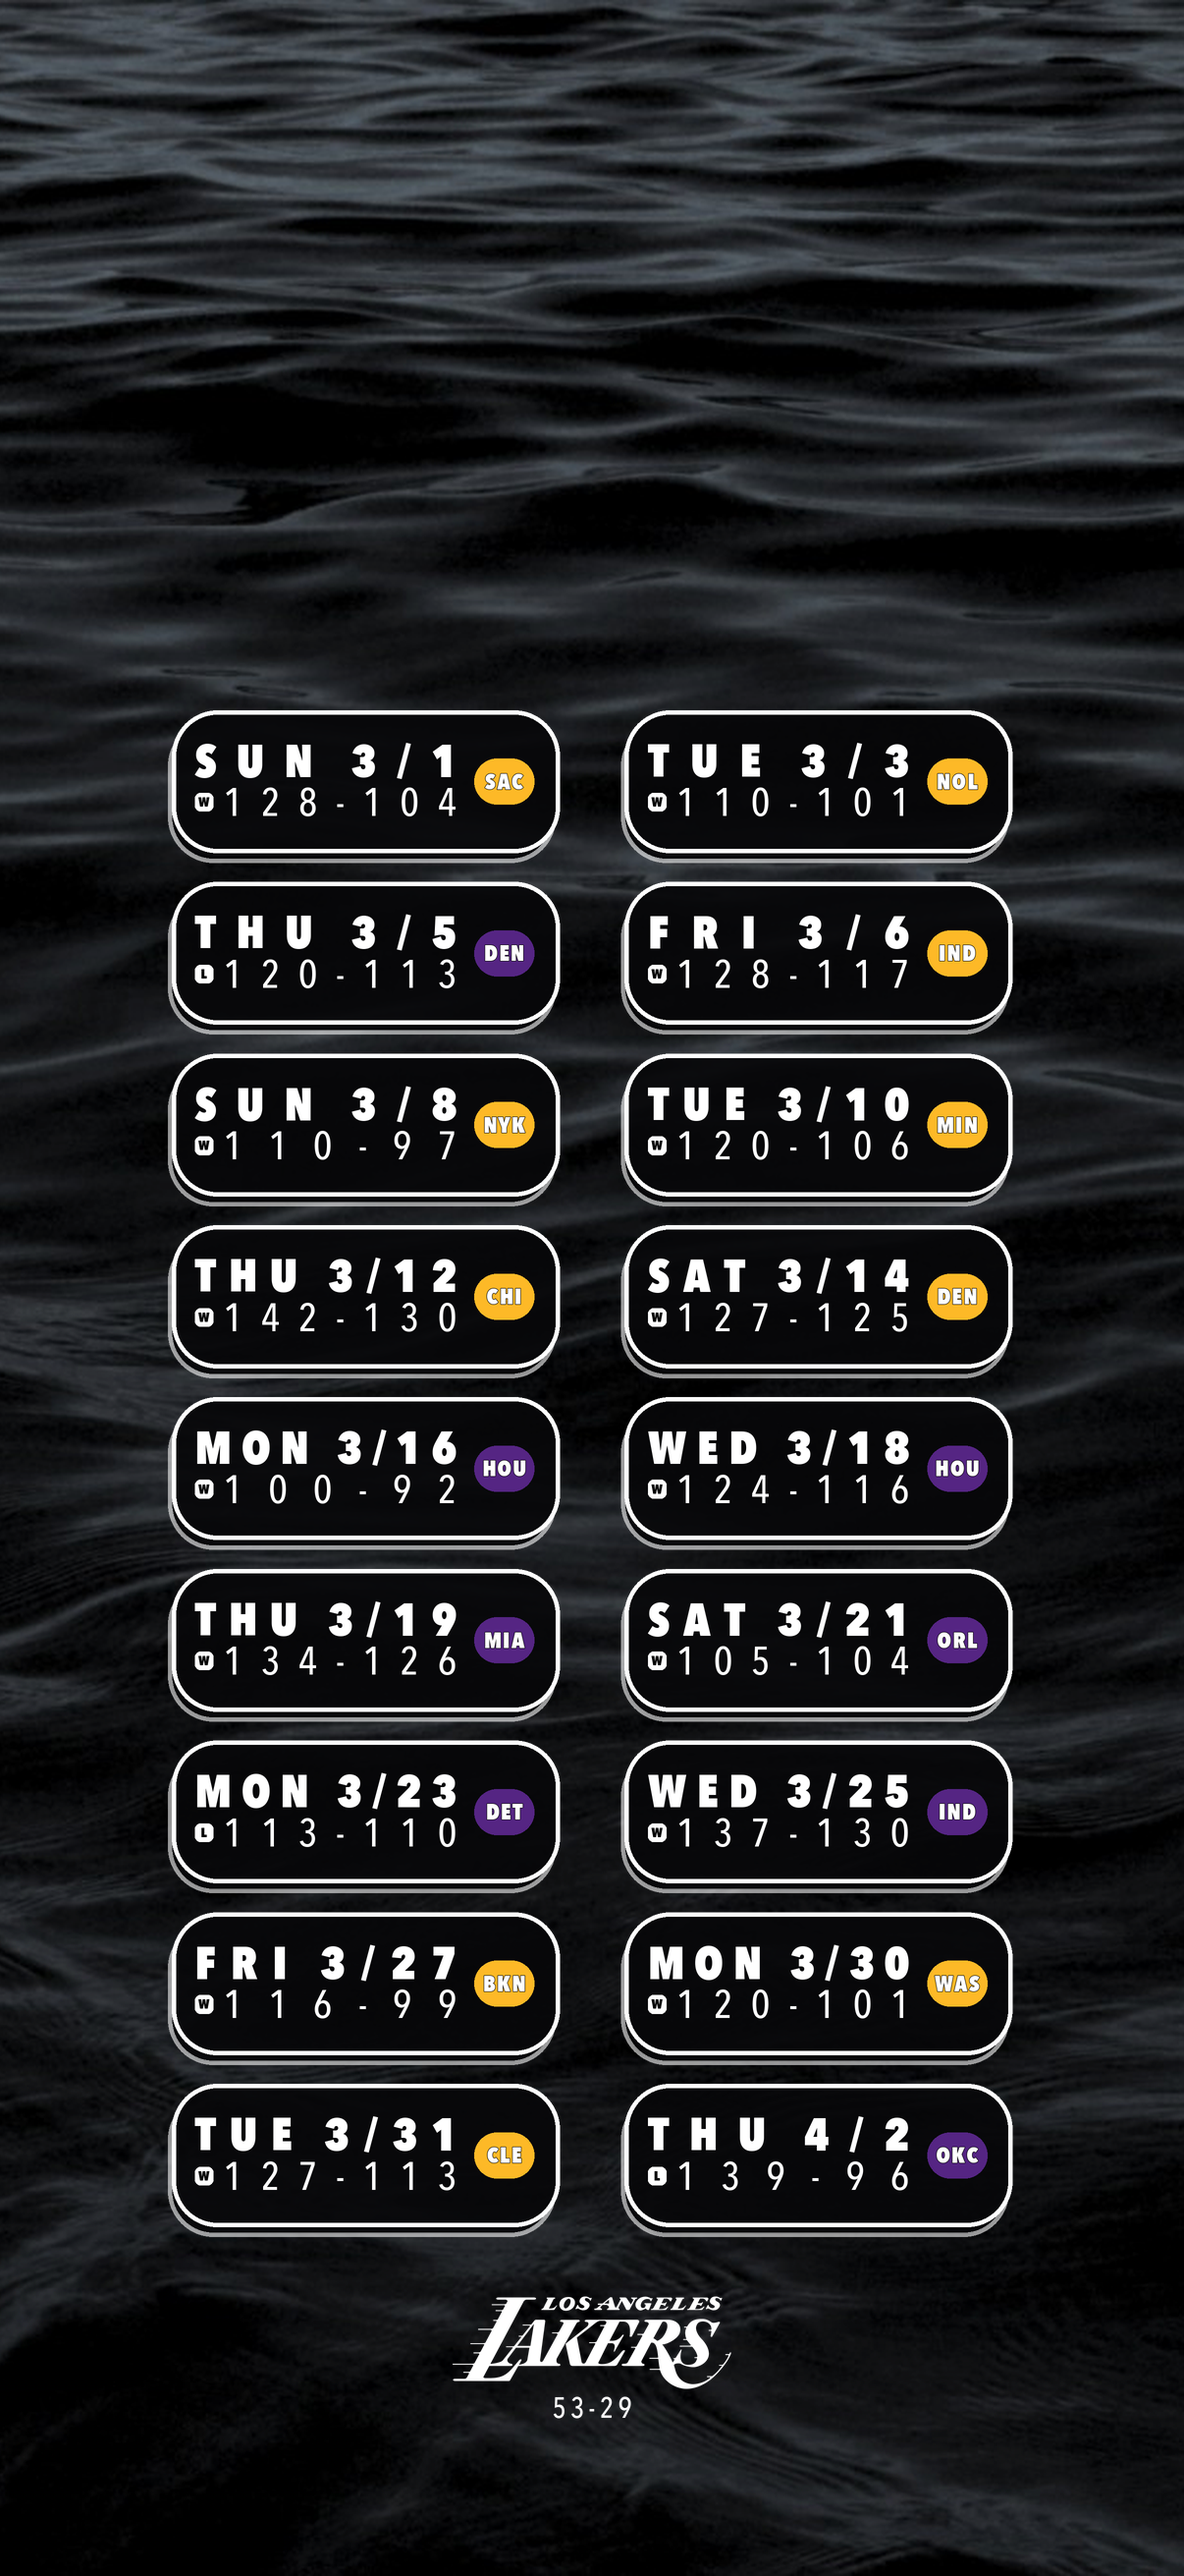
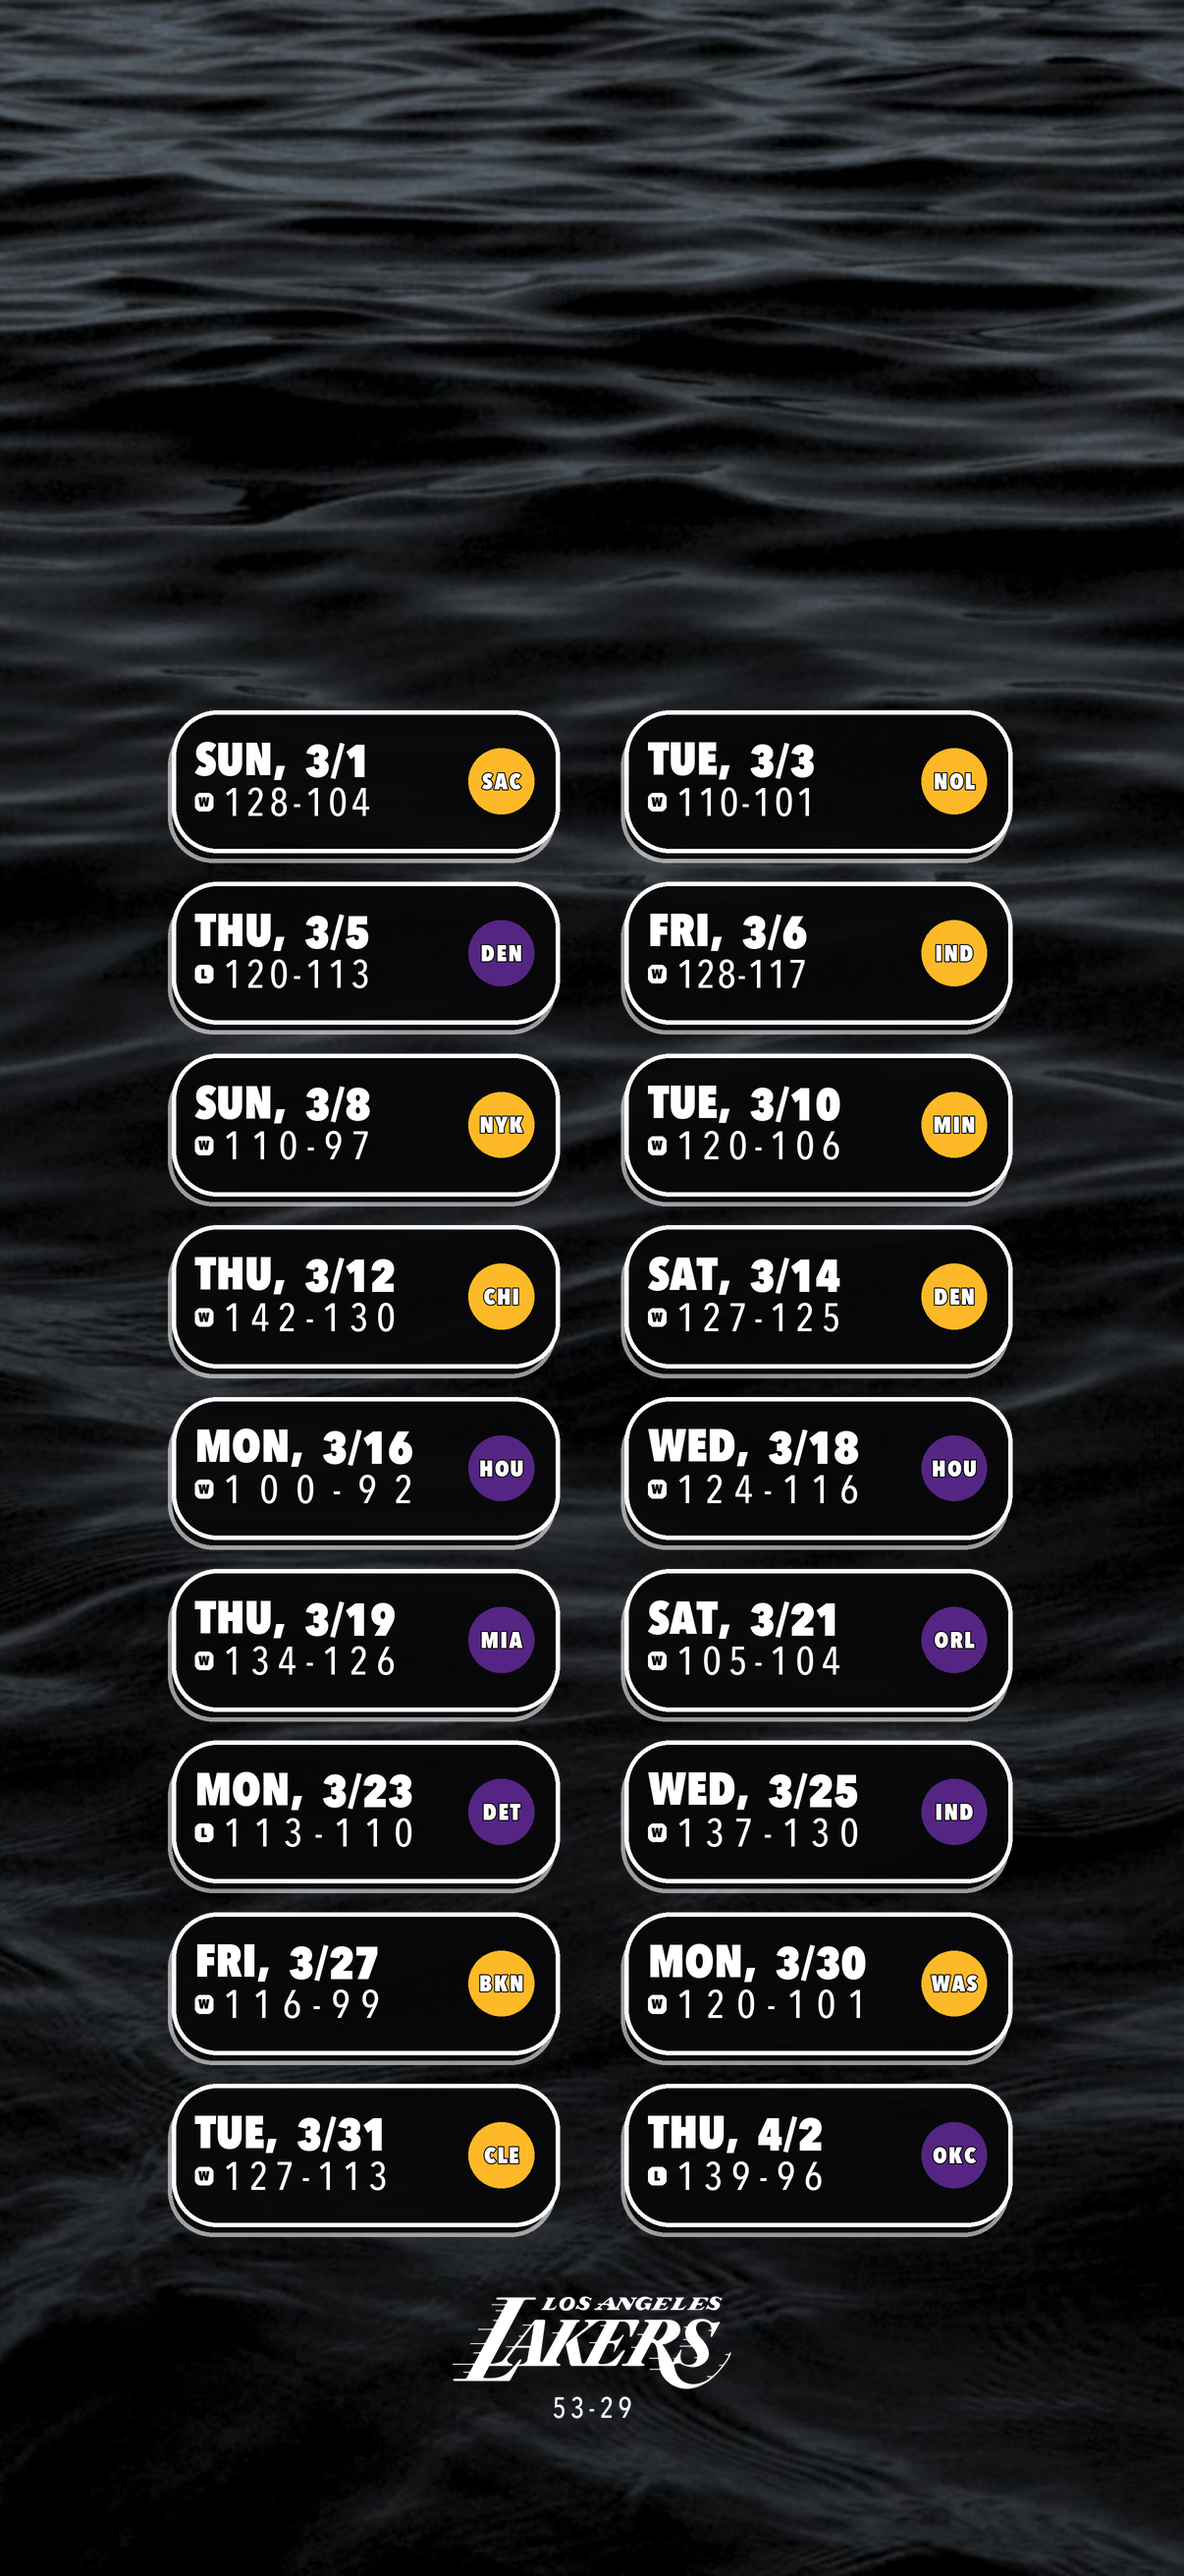
Set lines to their natural width instead of the full zone
Filling the zone meant every line was pulled 1.3x-2.3x wider than it
needed to be - October's score line naturally covered only 43% of its
zone, so most of its width was empty letter-gaps. That, not the tags, is
what made the chips look wrong.

Lines are now set to the wider of the two, still flush left and still
equal to each other.

diff --git a/lakerscreen/render.py b/lakerscreen/render.py
@@ -419,10 +419,11 @@ def _draw_chip(c: _Canvas, box, g: Game, cfg: Config, scale: float = 1.0,
                        sw / 2.0, fill=pal.gold if g.is_home else pal.purple)
 
     if lay.justify_lines:
-        # Both lines start at the chip's left padding and stretch across the
-        # full zone to the tag, so every chip's text spans the same span and
-        # the left edges form a column.
-        target = lw
+        # Both lines start at the chip's left padding and are set to their own
+        # shared natural width - the wider of the two. Stretching them to the
+        # full zone instead meant the shorter line more than doubled, so most
+        # of its width was empty letter-gaps.
+        target = min(max(_runs_width(tl), _runs_width(bl)), lw)
         _draw_runs(c, x0 + lz0, ya, _justify(c, list(tl), target), align="left")
         _draw_runs(c, x0 + lz0, yb, _justify(c, list(bl), target), align="left")
     else:
